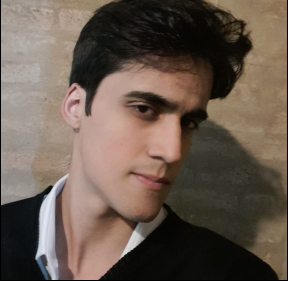
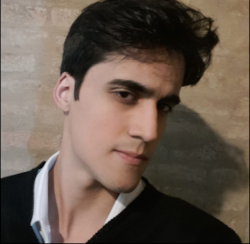
ajuste em duas imagens da Home

diff --git a/index.html b/index.html
@@ -47,7 +47,7 @@
                         Developer</h1>
                 </div>
                 <div class="links">
-                    <img id="perfil" src="img/Home/FotoPerfil.png" alt="Minha foto de perfil" width="250px">
+                    <img id="perfil" src="img/Home/FotoPerfil.png" alt="Minha foto de perfil">
                     <nav>
                         <a href="https://github.com/Otavio088" target="_blank"><img src="img/Home/GitHub.png" alt="Imagem do GitHub" title="GitHub" width="65px"></a>
                         <a href="https://www.linkedin.com/in/ot%C3%A1vio-augusto-de-melo-ribeiro-8a5314276/" target="_blank"><img src="img/Home/Linkedin.png" alt="Imagem do LinkedIn" title="LinkedIn" width="65px"></a>
